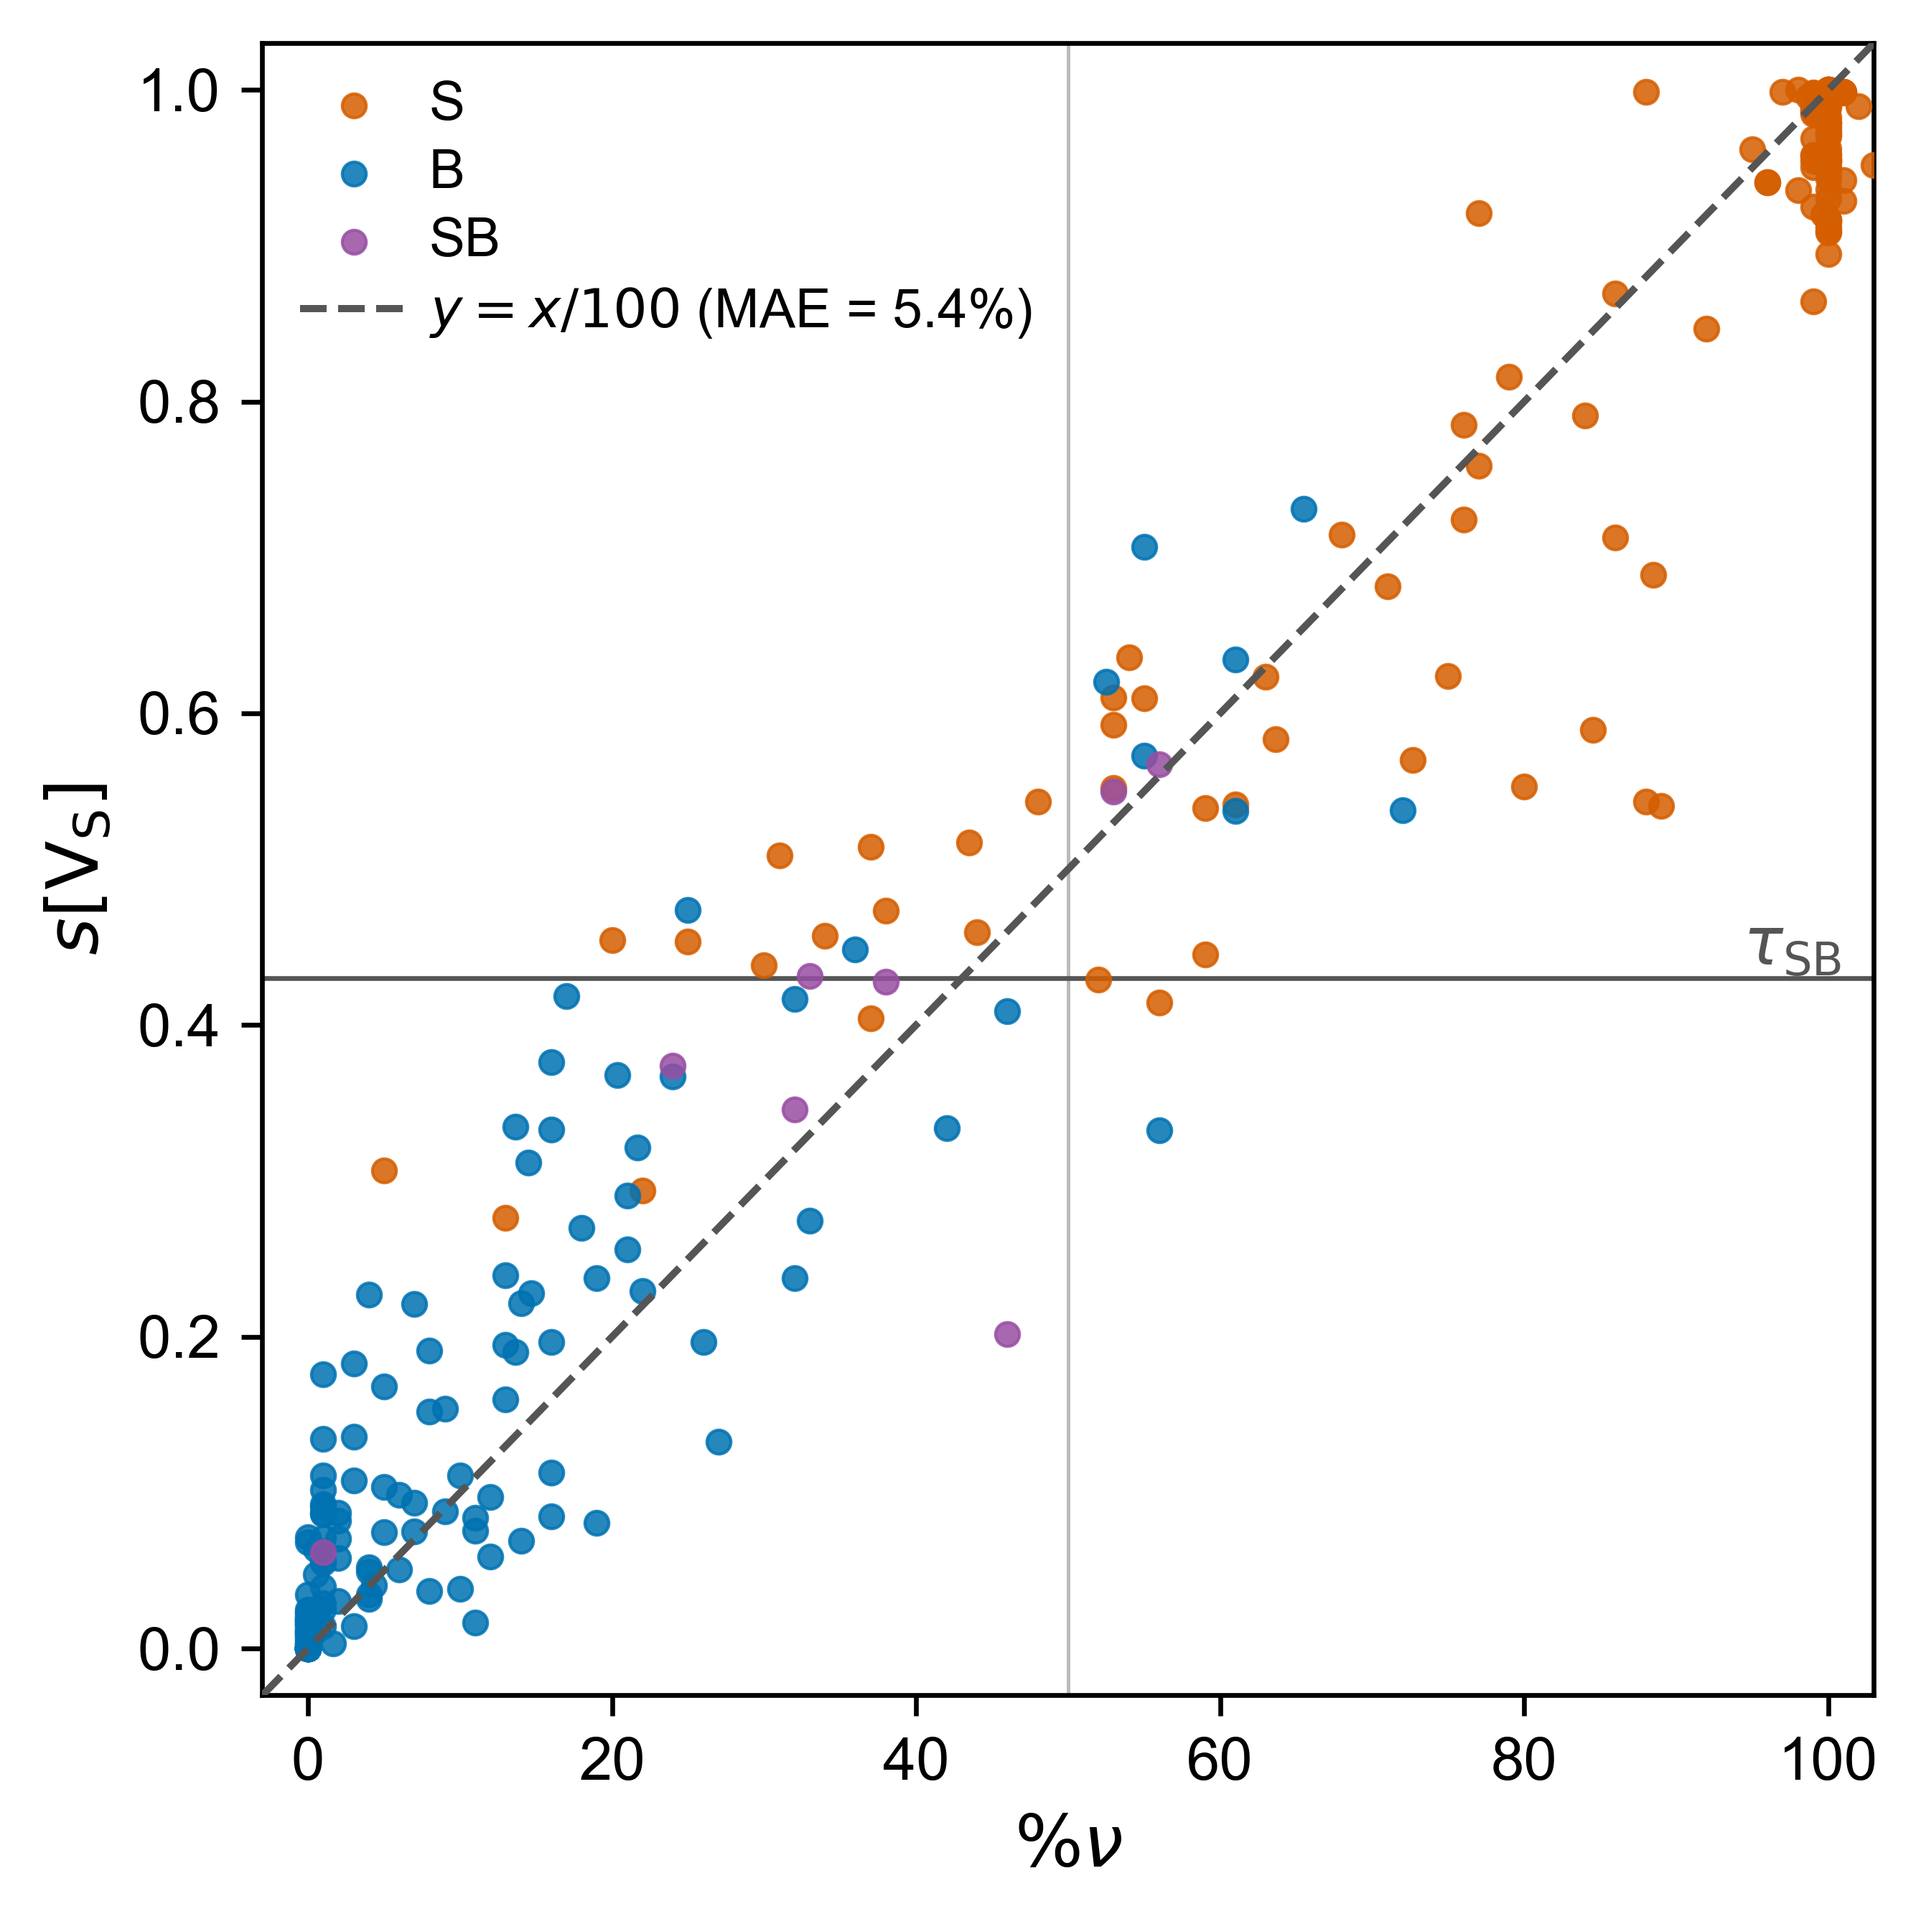
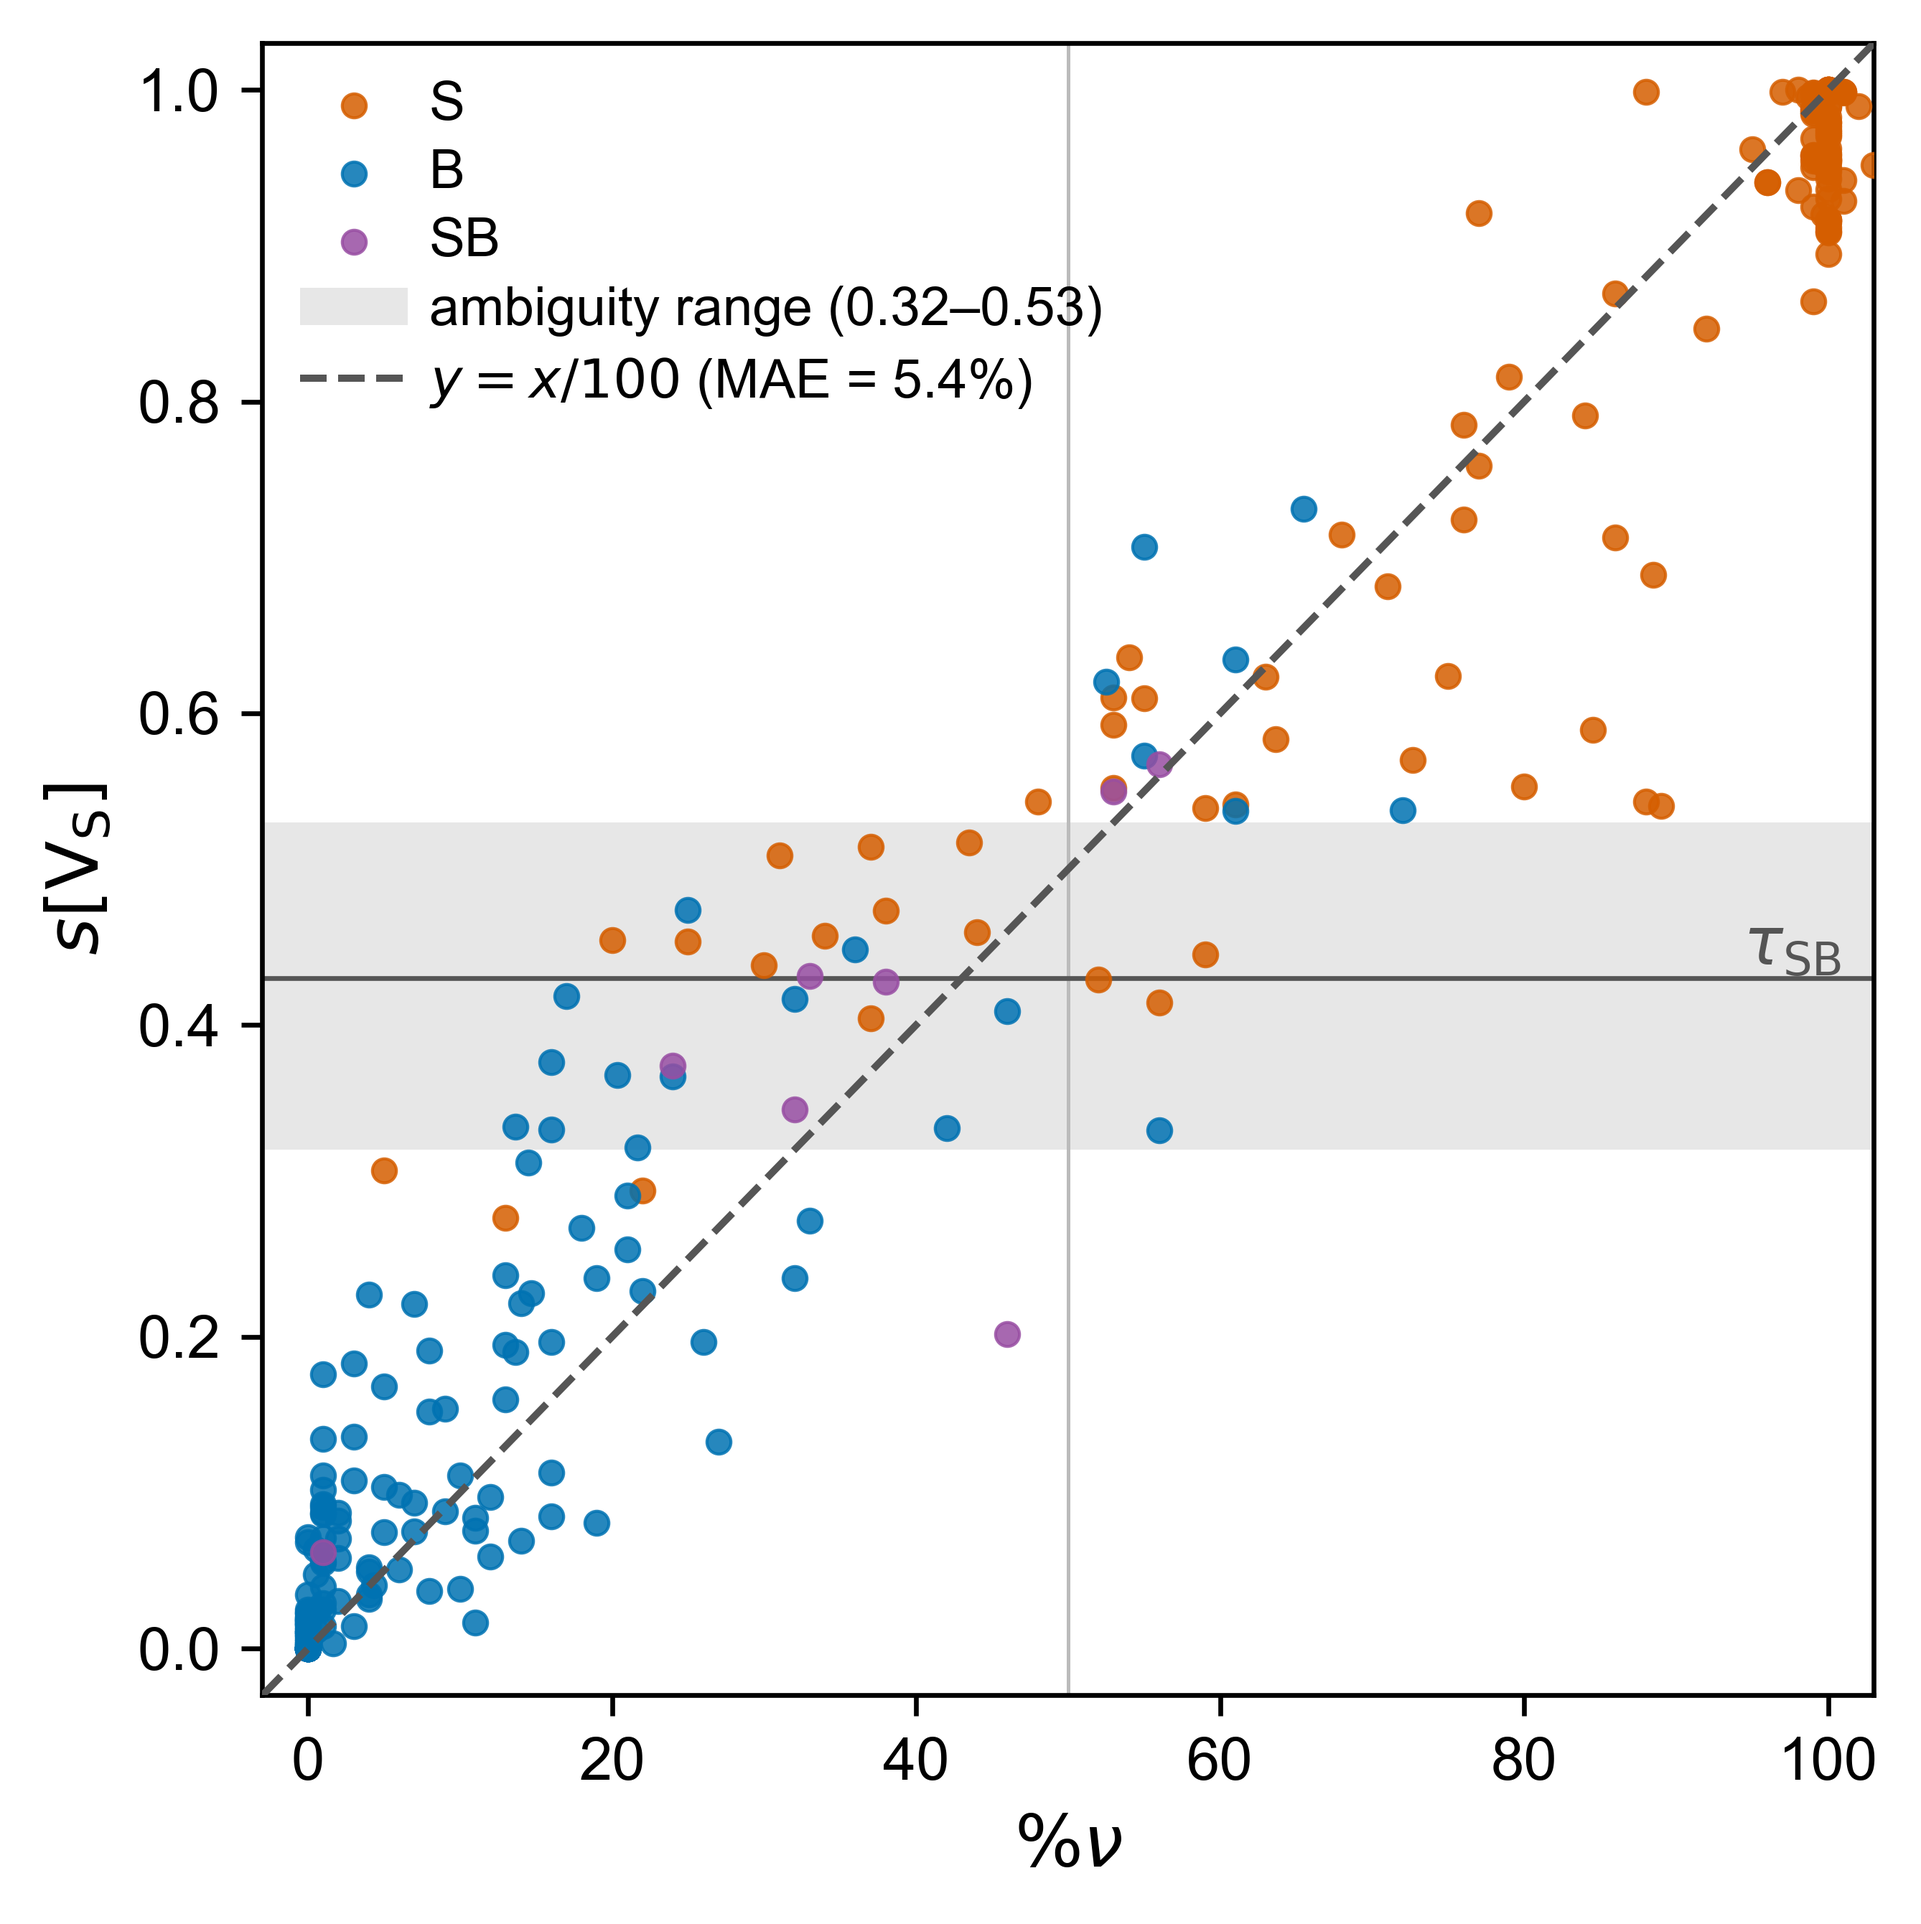
fig_ped_vs_vscore: shade the s[V_S] ambiguity range 0.32-0.53

Changed region(s): [[0.2171, 0.1548, 0.5893, 0.2167]]

diff --git a/src/figures.py b/src/figures.py
@@ -3918,6 +3918,12 @@ def plot_ped_vs_vscore(
     # added to the legend (in-axes text label instead, right of the plot at
     # the line's own height).
     if show_tau_SB_line:
+        # Ambiguity range on s[V_S] only (it is a property of the score's
+        # calibration, not of %nu) -- same grey band as fig:benzenenormal,
+        # defined in this figure's section (R1.9/R1.10, user 2026-11-12).
+        lo, hi = AMBIGUITY_RANGE
+        ax.axhspan(lo, hi, color=COLORS["background"], alpha=0.35, lw=0, zorder=0,
+                   label=f"ambiguity range ({AMBIGUITY_LABEL})")
         ax.axhline(th.tau_SB, color=COLORS["threshold"], ls="-", lw=0.8, zorder=1)
         ax.text(0.98, th.tau_SB, r"$\tau_{\mathrm{SB}}$", ha="right", va="bottom",
                 color=COLORS["threshold"], transform=ax.get_yaxis_transform())
